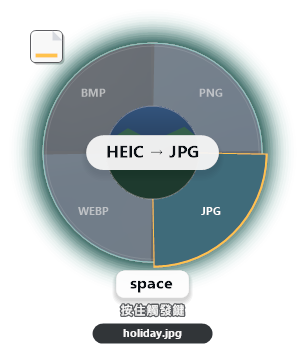
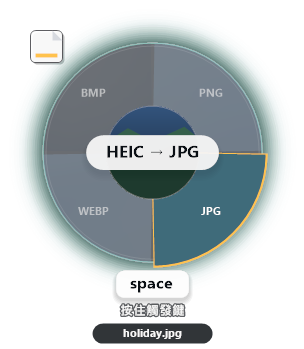
fix(wheel): 淺色底光暈改對齊設計稿（使用者定案 B）
實機症狀「光暈變成一大圈」經色度量測定位：深色分支與設計稿相符（83 對 108），
淺色分支（原 ×1.8）為設計稿約 1.5 倍（117 對 76）。
使用者 2026-10-01 看過實機與 A/B 兩版後定案 B：GlowRimAlphaLight 166 → 94。
定案後實測 83／46 對設計稿 76／48。
被否決的 ×1.8 版畫面保留為 20-frame-light-x18.png／21-raw-light-x18.png。
check-frame.ps1 仍全過。

Changed region(s): [[0.0888, 0.086, 0.9178, 0.7736]]

diff --git a/src/Sidecar/Visual/WheelDesign.cs b/src/Sidecar/Visual/WheelDesign.cs
@@ -119,13 +119,15 @@ internal static class WheelDesign
     // 實測（盤緣外距離 → 合成 alpha）：
     //   深色底：設計稿 +6px 108、+14px 65、+26px 21；舊實作 +6px 88、+14px 49、+26px 10
     //           ⇒ **相符**（實作略窄），深色分支不需改。
-    //   淺色底：設計稿 +6px 76、+14px 48；舊實作（×1.8）134、69 ⇒ **約 1.76 倍過濃**。
-    // 淺色 ×1.8 是使用者對 §8.4 問題②核可的「淺底加亮」，保留；
-    // 但它是「實機看起來變成一圈亮環」的主要嫌疑，另案向使用者確認。
+    //   淺色底：設計稿 +6px 76、+14px 48；實作 +6px 117、+14px 70（×1.8）⇒ **約 1.5 倍過濃**。
+    // 使用者 2026-10-01 在實機看到「光暈變成一大圈」後定案：**淺色放棄 ×1.8**，
+    // 改為對齊設計稿的 94（實測合成 83／46，對設計稿 76／48）。
+    // 這條覆蓋了先前對 spike §8.4 問題②「淺底加亮」的核可——那次是在設計稿上判斷的，
+    // 沒有在真實桌面上看過。
 
     /// <summary>盤緣處的**累積**不透明度（0–255）。</summary>
     public const int GlowRimAlphaDark = 113;
-    public const int GlowRimAlphaLight = 166;
+    public const int GlowRimAlphaLight = 94;
 
     public static int GlowRimAlpha(double meanLuma) =>
         IsLightBackdrop(meanLuma) ? GlowRimAlphaLight : GlowRimAlphaDark;

diff --git a/docs/aegis/work/2026-10-01-wheel-impl/90-evidence.md b/docs/aegis/work/2026-10-01-wheel-impl/90-evidence.md
@@ -167,9 +167,12 @@ PASS  S4.7 source file untouched: same mtime
 
 **結論**：
 1. **深色分支與設計稿相符（略弱約 2 成）**，不是這次症狀的來源。
-2. **淺色分支（使用者核可的 ×1.8）約是設計稿的 1.5 倍**，是目前最強的嫌疑：
+2. **淺色分支（核可的 ×1.8）約是設計稿的 1.5 倍**，是目前最強的嫌疑：
    游標只要停在亮處（白底文件、淺色桌布）就會變成明顯的一圈亮環。
-3. 淺色 ×1.8 是使用者對 spike §8.4 問題②的核可版本，**未擅自改動**，另案請使用者定案。
+3. **使用者 2026-10-01 看過實機後定案：淺色放棄 ×1.8、改對齊設計稿（`GlowRimAlphaLight`
+   166 → 94）**，實測合成 83／46 對設計稿 76／48。這條覆蓋了先前對 spike §8.4 問題②
+   「淺底加亮」的核可——那次是在設計稿上判斷的，沒在真實桌面看過。
+   （A/B 兩版畫面都留在本目錄：`20-frame-light-x18.png` 是被否決的 ×1.8 版。）
 
 **同時修掉的兩個真缺陷（與症狀無關，但都是「實作不符設計」）**：
 - `DrawSoftRing` 記帳用未四捨五入的值，十幾圈累積下來總量短少一到兩成
